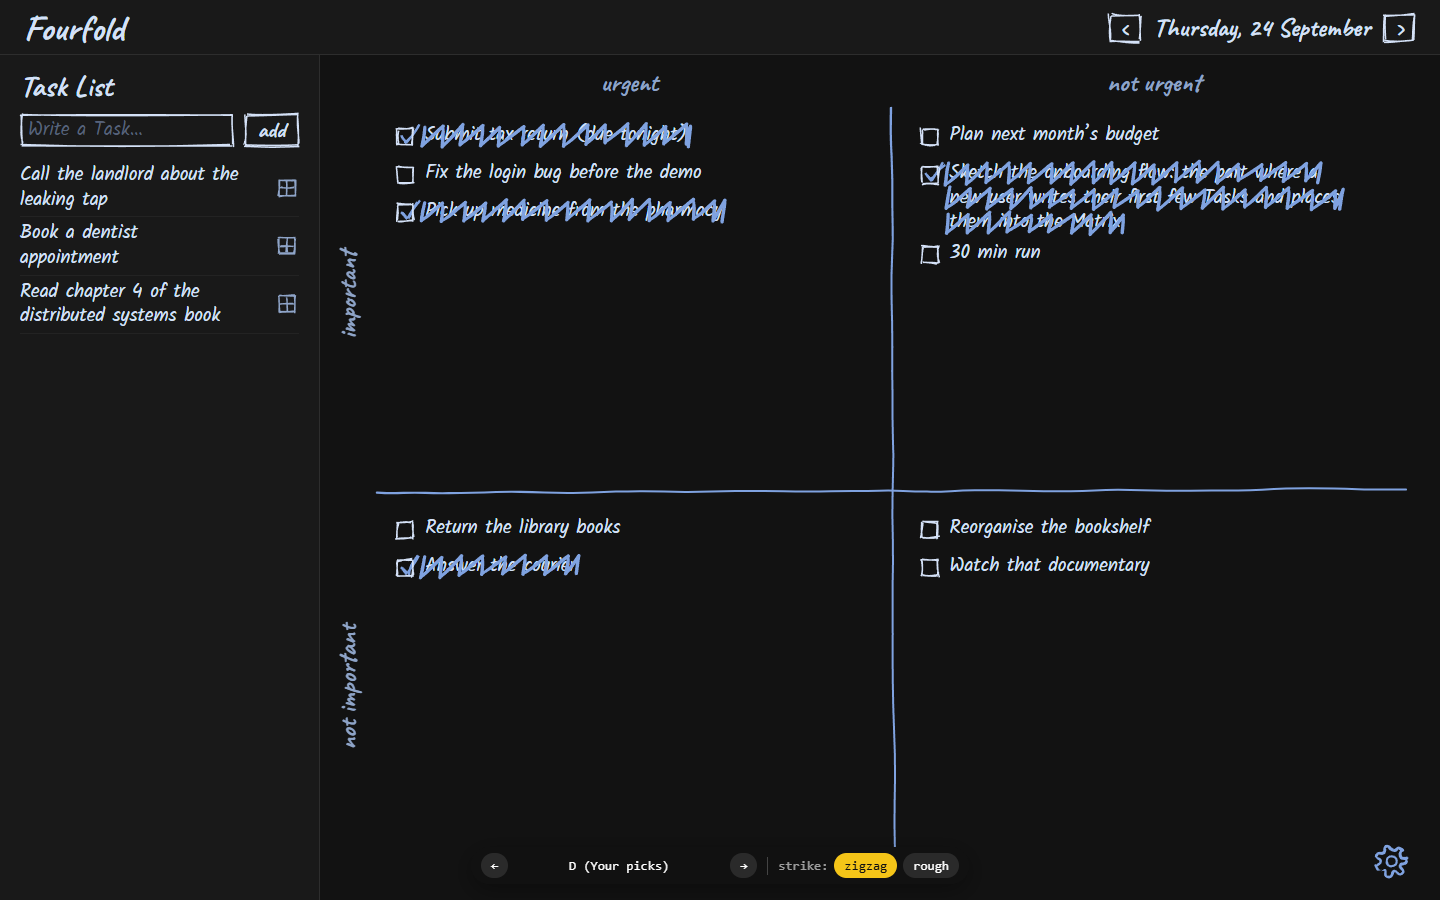
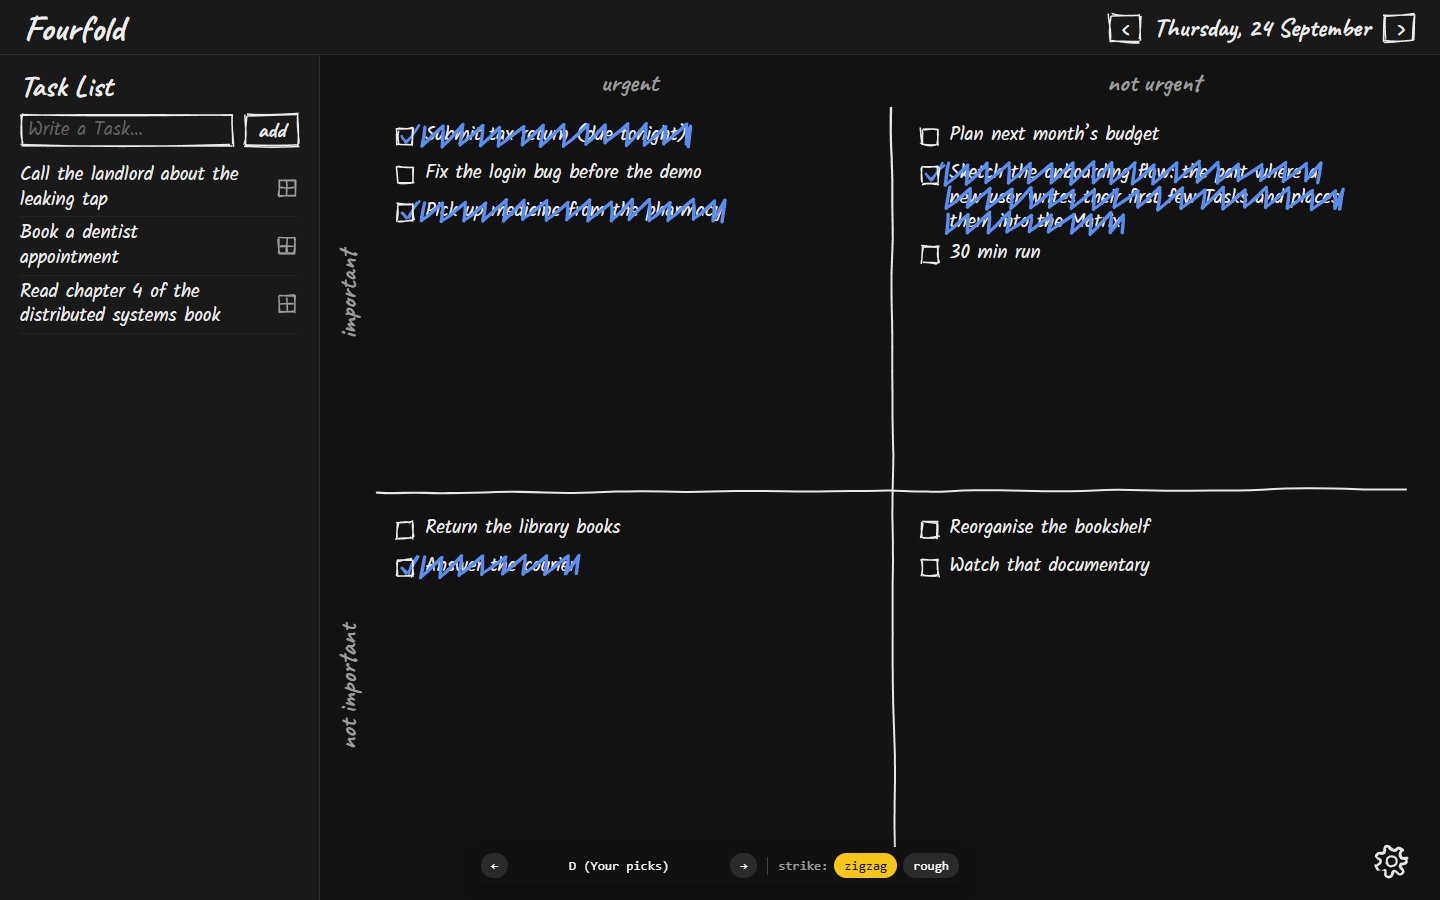
PROTOTYPE #8: D round 8 - bolder rough strike, still gear, keep cobalt and steel noir, drop ivory ink

diff --git a/prototypes/visual-direction/src/styles.css b/prototypes/visual-direction/src/styles.css
@@ -146,18 +146,10 @@ s { opacity: 0.6; }
 .vd[data-theme^=noir], .vd-swatch[data-theme^=noir] { --shadow: rgba(0,0,0,.6); --rule: var(--line); }
 /* chalk on a slate blackboard (the round 6 keeper) */
 .vd[data-theme=noir-chalk], .vd-swatch[data-theme=noir-chalk] { --bg: #232b2a; --panel: #283230; --line: #3a4644; --line-soft: #313c3a; --ink: #eceee6; --muted: #a8b4ad; --faint: #6f7c77; --divider: #e3e6dc; --strike: #f4f1e2; --soft: #33403e; --danger: #f0a08a; }
-/* Ivory ink: the ivory theme turned over, on four different blacks */
-.vd[data-theme^=noir-ivory], .vd-swatch[data-theme^=noir-ivory] { --ink: #efe7d4; --muted: #a59b85; --divider: #e6dcc6; --strike: #efe7d4; --danger: #e07a5f; }
-.vd[data-theme=noir-ivory], .vd-swatch[data-theme=noir-ivory] { --bg: #151412; --panel: #1c1b18; --line: #302d27; --line-soft: #262420; --faint: #6e6758; --soft: #2a2723; }
-.vd[data-theme=noir-ivory-espresso], .vd-swatch[data-theme=noir-ivory-espresso] { --bg: #1d1712; --panel: #241d17; --line: #3a3027; --line-soft: #2e261f; --faint: #75685a; --soft: #30281f; --muted: #ad9c86; }
-.vd[data-theme=noir-ivory-charcoal], .vd-swatch[data-theme=noir-ivory-charcoal] { --bg: #1a1b1d; --panel: #212225; --line: #35363a; --line-soft: #2a2b2e; --faint: #6c6a66; --soft: #2d2e31; --muted: #a39c8f; }
-.vd[data-theme=noir-ivory-gold], .vd-swatch[data-theme=noir-ivory-gold] { --bg: #151412; --panel: #1c1b18; --line: #302d27; --line-soft: #262420; --faint: #6e6758; --soft: #2a2723; --strike: #d4b26a; --muted: #b8a47a; }
-/* Noir & blue: black paper, with the blue going into the pen, the lines, or the paper itself */
+/* Noir & blue: black paper, white ink, with the blue in the strike (cobalt) or in the lines and strike (steel) */
 .vd[data-theme^=noir-blue], .vd-swatch[data-theme^=noir-blue] { --bg: #121212; --panel: #191919; --line: #2d2d2d; --line-soft: #232323; --ink: #ececec; --muted: #9c9c9c; --faint: #636363; --divider: #e6e6e6; --soft: #262626; --danger: #e8836e; }
 .vd[data-theme=noir-blue-cobalt], .vd-swatch[data-theme=noir-blue-cobalt] { --strike: #5b8def; }
 .vd[data-theme=noir-blue-steel], .vd-swatch[data-theme=noir-blue-steel] { --divider: #9fb3cc; --strike: #9fb3cc; --muted: #95a3b5; }
-.vd[data-theme=noir-blue-biro], .vd-swatch[data-theme=noir-blue-biro] { --ink: #d4e1f7; --muted: #8ea4c8; --faint: #56627a; --divider: #7fa2e0; --strike: #7fa2e0; }
-.vd[data-theme=noir-blue-black], .vd-swatch[data-theme=noir-blue-black] { --bg: #0d1117; --panel: #131a23; --line: #26303d; --line-soft: #1c242f; --ink: #e6edf3; --muted: #8d99a8; --faint: #525f6e; --divider: #dbe3ec; --strike: #58a6ff; --soft: #1f2833; }
 
 .vd button { border: 0; background: none; }
 .vd input { color: inherit; }
@@ -223,8 +215,7 @@ body.vd-dragging, body.vd-dragging * { cursor: grabbing !important; }
 .vd-pop { position: fixed; z-index: 950; background: var(--panel); color: var(--ink); border: 1px solid var(--line); border-radius: 10px; box-shadow: 0 14px 34px var(--shadow); cursor: default; }
 .vd .vd-gear { position: absolute; right: 2px; bottom: 0; z-index: 5; display: flex; padding: 4px; color: var(--divider); }
 .vd .vd-gear:hover, .vd .vd-gear[aria-expanded=true] { color: var(--ink); }
-.gear-icon { width: 38px; height: 38px; overflow: visible; transition: transform .4s; }
-.vd-gear:hover .gear-icon { transform: rotate(45deg); }
+.gear-icon { width: 38px; height: 38px; overflow: visible; }
 .vd-settings { width: 370px; max-height: calc(100vh - 100px); overflow: auto; padding: 14px 18px 16px; }
 .vd-settings h2 { font: 700 28px/1 Caveat, cursive; margin: 0 0 8px; }
 .vd-swatches { display: flex; flex-wrap: wrap; align-items: center; gap: 6px; margin-bottom: 8px; }

diff --git a/prototypes/visual-direction/src/variants/D_Picks.tsx b/prototypes/visual-direction/src/variants/D_Picks.tsx
@@ -10,20 +10,14 @@ import { QUADRANTS, type QuadrantIndex, type Store, type Task, type VariantProps
 
 export const name = 'Your picks';
 
-// Plain and the two ivory keepers, chalkboard, and round 7's dark variations: ivory ink and noir & blue.
+// The keepers: plain, ivory with navy or black, chalkboard, and noir with a cobalt strike or steel lines.
 const THEMES = {
   plain: { label: 'Plain', group: 'Plain' },
   'ivory-navy': { label: 'navy', group: 'Ivory' },
   'ivory-black': { label: 'black', group: 'Ivory' },
   'noir-chalk': { label: 'chalkboard', group: 'Dark' },
-  'noir-ivory': { label: 'warm black', group: 'IvoryInk' },
-  'noir-ivory-espresso': { label: 'espresso', group: 'IvoryInk' },
-  'noir-ivory-charcoal': { label: 'charcoal', group: 'IvoryInk' },
-  'noir-ivory-gold': { label: 'gold strike', group: 'IvoryInk' },
   'noir-blue-cobalt': { label: 'cobalt strike', group: 'NoirBlue' },
   'noir-blue-steel': { label: 'steel lines', group: 'NoirBlue' },
-  'noir-blue-biro': { label: 'blue biro', group: 'NoirBlue' },
-  'noir-blue-black': { label: 'blue-black', group: 'NoirBlue' },
 } as const;
 type Theme = keyof typeof THEMES;
 
@@ -170,7 +164,7 @@ function Settings({ theme, setTheme }: { theme: Theme; setTheme: (t: Theme) => v
     const r = btn.current!.getBoundingClientRect();
     setAt({ right: Math.max(8, innerWidth - r.right), bottom: innerHeight - r.top + 6 });
   };
-  const groups = { Plain: '', Ivory: 'ivory &', Dark: 'dark', IvoryInk: 'ivory ink on', NoirBlue: 'noir &' };
+  const groups = { Plain: '', Ivory: 'ivory &', Dark: 'dark', NoirBlue: 'noir &' };
   return (
     <>
       <button ref={btn} className="vd-gear" onClick={toggle} aria-expanded={at !== null} aria-label="Settings" title="Settings">

diff --git a/prototypes/visual-direction/src/draw.tsx b/prototypes/visual-direction/src/draw.tsx
@@ -94,7 +94,7 @@ export function StrikeText({ id, text, done, style }: { id: string; text: string
                     seed: seed + i,
                     roughness: 1.6,
                     bowing: 2,
-                    strokeWidth: 2.6,
+                    strokeWidth: 3.4,
                   })}
                 />
               </g>

diff --git a/prototypes/visual-direction/README.md b/prototypes/visual-direction/README.md
@@ -21,7 +21,7 @@ Flip variants with the bottom bar (or ←/→ keys). State (placements, completi
 
 D only, also set from the settings gear:
 
-- `?theme=` switches the colour scheme: `plain`, `ivory-navy`, `ivory-black`, `noir-chalk` (chalk on slate), the ivory ink variations `noir-ivory` (warm black), `noir-ivory-espresso`, `noir-ivory-charcoal`, `noir-ivory-gold` (gold strike), and the noir & blue variations `noir-blue-cobalt` (cobalt strike), `noir-blue-steel` (steel-blue lines and strike), `noir-blue-biro` (everything in blue pen), `noir-blue-black` (blue-black paper, bright blue strike). The doodled gear in the Matrix's bottom-right corner sets it too.
+- `?theme=` switches the colour scheme: `plain`, `ivory-navy`, `ivory-black`, `noir-chalk` (chalk on slate), `noir-blue-cobalt` (black, cobalt strike) and `noir-blue-steel` (black, steel-blue lines and strike). The doodled gear in the Matrix's bottom-right corner sets it too.
 
 Per the in-Quadrant layout decision (#6): Quadrants are plain ordered lists, Tasks drawn straight, Completed Tasks stay in place. In A–C the placement buttons are a stand-in (append to end of Quadrant).
 
